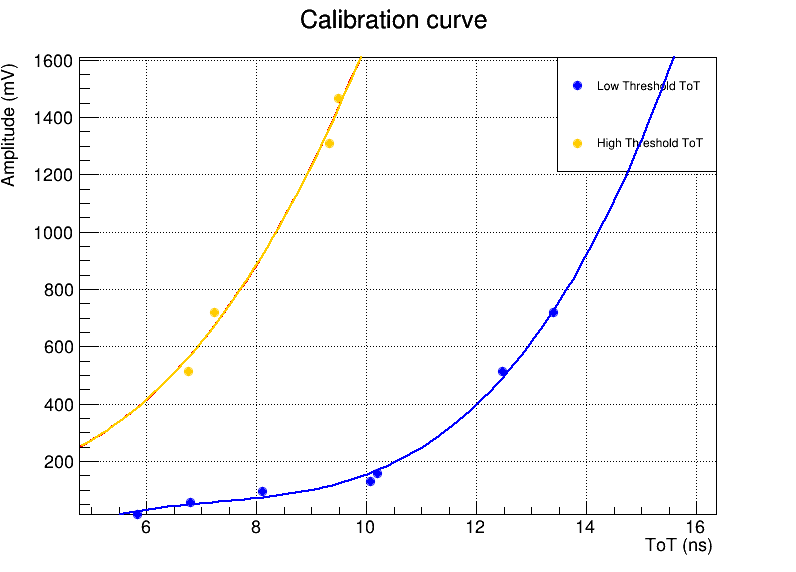
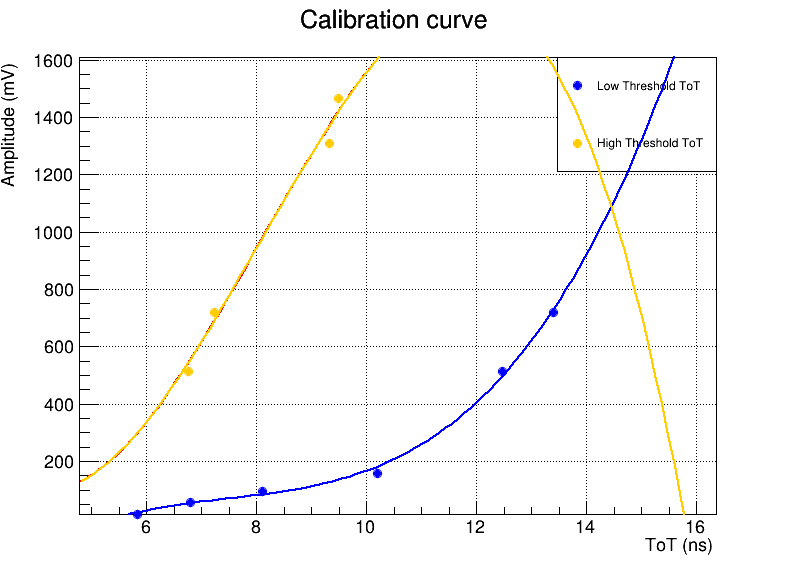
new commit

diff --git a/time_distribution_graph.C b/time_distribution_graph.C
@@ -223,7 +223,7 @@ int main() {
         "T_smear_5275_2800.txt",
         "T_smear_67_150.txt", "T_smear_86_22.txt",
         "T_smear_4000.txt","T_smear_723.txt","T_smear_29824.txt","T_smear_528.txt","T_smear_648.txt","T_smear_26539.txt"
-        "T_smear_135",    "T_smear_150.txt" ,"T_smear_800.txt","T_smear_10.txt"  };
+        "T_smear_135" ,"T_smear_800.txt","T_smear_10.txt"  };
 
     std::vector<double> N;
     std::vector<double> tot_l;
@@ -236,6 +236,8 @@ int main() {
     // Filtraggio dei valori negativi
     std::vector<double> N_filtered, N_filtered_h,tot_l_filtered, tot_h_filtered;
     for (int i = 0; i < N.size(); ++i) {
+      std::cout<<N[i]<<std::endl;
+      std::cout<<tot_l[i]<<std::endl;
         if (tot_l[i] >= 0 && N[i]<=2700) {
             N_filtered.push_back(N[i]);
             tot_l_filtered.push_back(tot_l[i]);
@@ -269,7 +271,7 @@ int main() {
     gr_high->Draw("P same");
 
     // Aggiungi legenda
-    TLegend *legend = new TLegend(0.7, 0.7, 0.9, 0.9);
+    TLegend *legend = new TLegend(0.1, 0.7, 0.3, 0.9);
     legend->AddEntry(gr_low, "Low Threshold ToT", "p");
     legend->AddEntry(gr_high, "High Threshold ToT", "p");
     legend->Draw();
@@ -293,7 +295,7 @@ int main() {
     fit_high->Draw("same");
 
     // Salva il grafico in un file
-    c1->SaveAs("N_vs_ToT_fit_True6.png");
+    c1->SaveAs("N_vs_ToT_fit_True7.png");
 
     // Pulizia della memoria
     delete gr_low;

diff --git a/time_distribution_true.C b/time_distribution_true.C
@@ -63,7 +63,7 @@ auto get_time_pe_max_cell = [](ROOT::VecOps::RVec<dg_cell>& cells) {
         for (const auto& p : c.ps1) {
 	  pe_count = p.photo_el.size();
 	  std::cout<<pe_count<<std::endl;
-	  if (pe_count > 9 and pe_count <20 ) {
+	  if (pe_count > 100 and pe_count <150 ) {
             max_pe_count = pe_count;
             max_pe_cell_index = c.id;
 	  }
@@ -71,7 +71,7 @@ auto get_time_pe_max_cell = [](ROOT::VecOps::RVec<dg_cell>& cells) {
   }
     std::cout<<"max:"<<max_pe_cell_index<<std::endl;
     // Open a file for writing (overwriting the file if it already exists)
-    std::ofstream outFile("T_smear_10.txt", std::ios::trunc);
+    std::ofstream outFile("T_smear_100.txt", std::ios::trunc);
     // Check if the file is opened successfully
     if (!outFile.is_open()) {
         std::cerr << "Error opening file for writing!" << std::endl;
